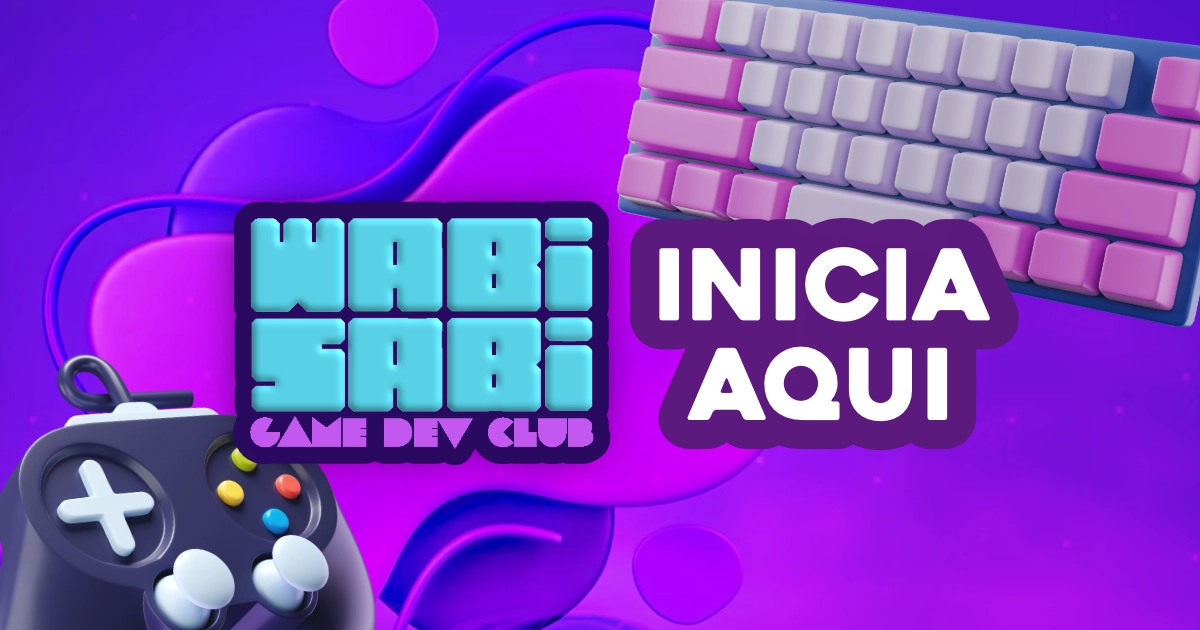
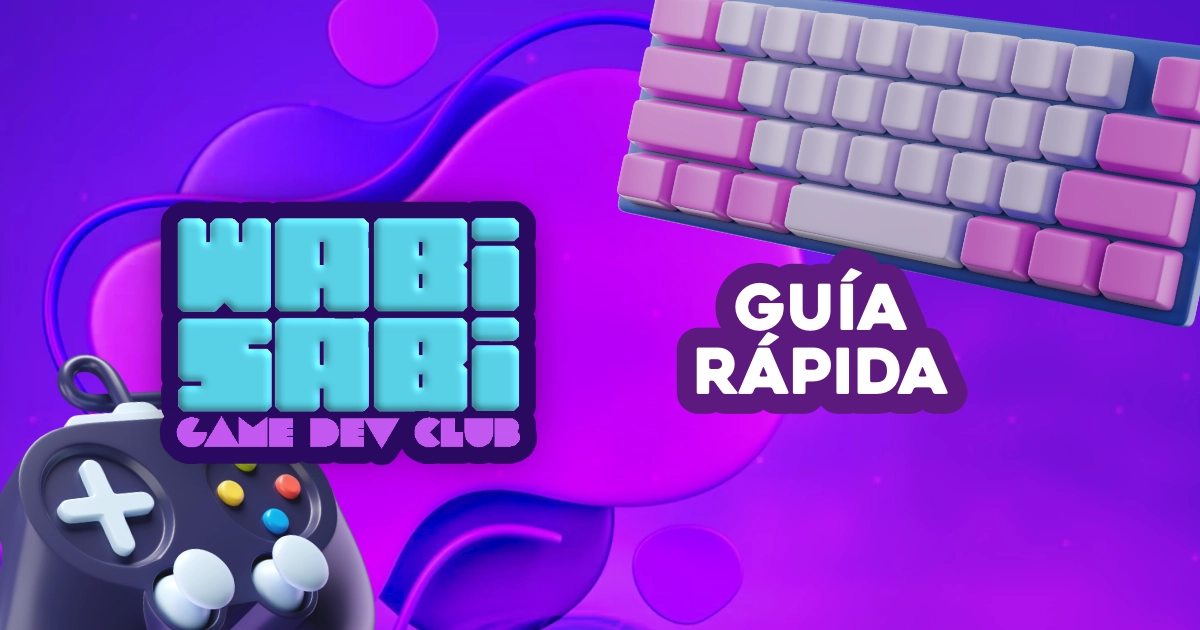
Updated Quick Start guides and changed colors of the overall website

Changed region(s): [[0.1233, 0.3016, 0.8633, 0.754]]

diff --git a/_sass/colors/dark-typography.scss b/_sass/colors/dark-typography.scss
@@ -67,8 +67,8 @@
   --btn-share-color: #6c757d;
   --btn-share-hover-color: #bfc1ca;
   --relate-post-date: var(--text-muted-color);
-  --card-bg: #2c153e;
-  --card-hovor-bg: #5b3692;
+  --card-bg: #20153e;
+  --card-hovor-bg: #3b3692;
   --card-shadow: rgb(21, 21, 21, 0.72) 0 6px 18px 0,
     rgb(137, 135, 135, 0.24) 0 0 0 1px;
   --kbd-wrap-color: #6a6a6a;

diff --git a/_posts/2023-07-04-wabi-sabi-bienvenido.md b/_posts/2023-07-04-wabi-sabi-bienvenido.md
@@ -1,17 +1,49 @@
 ---
+layout: post
 title: Bienvenido a Wabi Sabi Game Dev Club
 date: 2023-07-04 00:00:00 -500
-categories: [Español, Documentos]
+categories: [Español, Documentos] 
 tags: [gamedev,docs]
 pin: true
 image:
     path: /assets/img/headers/bienvenidaheader.webp
 --- 
+## Como nació Wabi Sabi Game Dev Club
+Creé el Wabi Sabi Game Dev Club como una iniciativa abierta para desarrollar microcomunidades dedicadas a fomentar el desarrollo de videojuegos como una poderosa herramienta para la diversión social. Como desarrollador de videojuegos independiente en un país en vías de desarrollo, he sido testigo de primera mano de las necesidades surgidas por la falta de iniciativas comunitarias que sean abiertas, divertidas y diseñadas para ser realmente inclusivas con personas de todos los niveles de experiencia y trayectorias. El objetivo principal del Wabi Sabi Game Dev Club es empoderarte para que establezcas tu propio club de desarrollo de videojuegos Wabi Sabi. Con la guía y las herramientas proporcionadas en esta plataforma, independientemente de tu experiencia o bagaje, creo que cada entusiasta de los videojuegos tiene el poder en sus manos para crear una hermosa comunidad en su entorno inmediato. La misión de este proyecto es reunir a personas que comparten la creencia de que la acción colectiva y positiva en torno a la creación de videojuegos puede ser beneficiosa tanto para el bienestar personal como para la mejora de las comunidades que les rodean.
 
-Bienvenido al sitio web de documentación Wabi Sabi Game Dev Club, el hogar de una iniciativa de microcomunidades dedicada a fomentar el desarrollo de juegos como una poderosa herramienta para la diversión social. Creemos que los juegos tienen el potencial de crear un impacto significativo en la sociedad, y nuestra misión es reunir a individuos que comparten esta creencia, permitiéndoles desarrollar juegos juntos y utilizar esto como una herramienta para el cambio social.
+Podría estar equivocado, pero creo que la verdadera esencia del desarrollo de videojuegos radica en el proceso en sí, más que en el producto final. Por eso, la filosofía de este proyecto es abrazar el arte de la imperfección y la belleza de lo efímero, tal como se enseña en la filosofía japonesa del Wabi Sabi. Este proyecto tiene como objetivo promover la modularidad y flexibilidad, asegurando que el conocimiento compartido en esta plataforma pueda adaptarse fácilmente a diversos entornos, especialmente aquellos en países con necesidades específicas. Al priorizar la modularidad, buscamos proporcionar información y recursos que se puedan personalizar y aplicar de manera efectiva en diversos contextos. Nuestra meta es empoderar a las personas y comunidades adaptando el conocimiento a sus requisitos específicos, fomentando en última instancia el crecimiento dentro de cada microcomunidad.
 
-Nuestra iniciativa se basa en la idea de que la acción colectiva es más impactante que los esfuerzos individuales. Nuestra visión es crear una red de microcomunidades modulares, cada una enfocada en sus propias necesidades específicas para crear espacios divertidos para todos. Estas microcomunidades sirven como centros de colaboración, intercambio de conocimientos y creación de juegos, ya sea por diversión o con un propósito específico, para apasionados desarrolladores de juegos y entusiastas.
-# Apoya este proyecto
-Esta es una iniciativa de educación y código abierto
+## Actividades para tu propio Wabi Sabi Game Dev Club
+Estas son algunas actividades para las cuales compartiremos todos los materiales y conocimientos necesarios para que puedas organizar tu propio club. Si tienes ideas que te gustaría compartir, no dudes en contribuir a este sitio web.
 
-Puedes patrocinarla o contribuir a esta en [Github](https://github.com/WabiSabiClub/wabisabiclub.github.io)
+1. Eventos sociales y encuentros: Organiza eventos sociales informales, tanto en línea como en persona, para fomentar la interacción, construir relaciones y promover un sentido de camaradería entre los miembros. Esto puede incluir noches de juegos, encuentros virtuales o reuniones locales para que los miembros se conecten en persona.
+
+2. Game Jams: Organiza eventos regulares de "Game Jams" en los que los miembros puedan colaborar y crear juegos dentro de un período de tiempo determinado. Anima a los participantes a abrazar la imperfección y experimentar con enfoques no convencionales de diseño de juegos.
+
+3. Talleres y tutoriales: Realiza talleres y tutoriales sobre diversos aspectos del desarrollo de videojuegos, desde programación y arte hasta narrativa y diseño de juegos. Anima a los miembros con experiencia a compartir sus conocimientos y mentorizar a otros, fomentando una cultura de aprendizaje continuo y crecimiento.
+
+4. Sesiones de retroalimentación y pruebas de juego: Facilita sesiones regulares de retroalimentación y pruebas de juego donde los miembros puedan mostrar sus proyectos de juegos y recibir comentarios constructivos de la comunidad. Fomenta discusiones abiertas y crea un entorno de apoyo para compartir ideas y mejorar los proyectos de juego.
+
+5. Destacando a los desarrolladores: Resalta el trabajo de los miembros individuales o microcomunidades dentro del club al mostrar sus juegos, proyectos o logros. Esto puede inspirar a otros, promover la colaboración y generar un sentido de reconocimiento dentro de la comunidad.
+
+6. Proyectos de juego colaborativos: Inicia proyectos de desarrollo de juegos colaborativos donde los miembros puedan trabajar juntos en un concepto de juego compartido. Fomenta la diversidad de habilidades y trayectorias para crear un entorno inclusivo y colaborativo.
+
+7. Desafíos comunitarios: Organiza desafíos creativos o competencias dentro de la comunidad, como la creación de juegos con temas específicos, limitaciones o estilos. Estos desafíos pueden fomentar la creatividad, inspirar la innovación y brindar oportunidades para que los miembros se conecten y aprendan unos de otros.
+
+8. Exhibiciones y muestras comunitarias: Organiza oportunidades para que los miembros muestren sus juegos o proyectos a una audiencia más amplia, como participar en exposiciones de juegos o realizar muestras comunitarias dedicadas. Esto puede brindar exposición, retroalimentación y oportunidades de networking para los miembros.
+
+Al participar activamente en estas actividades e iniciativas, cada Wabi Sabi Game Dev Club puede cultivar una comunidad sólida y de apoyo, fomentando la colaboración, la creatividad y el crecimiento personal entre sus miembros.
+
+
+
+
+
+
+
+## Support this project
+Este es un proyecto de código abierto y educación abierta
+
+Puedes contribuir o patrocinarlo en [Github](https://github.com/WabiSabiClub/)
+
+[![Contribuir a este contenido](https://img.shields.io/badge/Contribuir%20a%20este%20contenido-%236A0DAD?style=for-the-badge&logo=github)](https://www.github.com/wabisabiclub/wabisabiclub.github.io) [![Patrocinar en Ko-fi](https://img.shields.io/badge/Patrocinar%20en%20Ko--fi-FF5E5B?style=for-the-badge&logo=ko-fi)](https://ko-fi.com/wabisabiclub) [![Patrocinar en Patreon](https://img.shields.io/badge/Patrocinar%20en%20Patreon-FF424D?style=for-the-badge&logo=patreon)](https://www.patreon.com/wabisabigamedevclub)
+

diff --git a/_posts/2023-07-04-wabi-sabi-welcome.md b/_posts/2023-07-04-wabi-sabi-welcome.md
@@ -1,19 +1,48 @@
 ---
 title: Welcome to Wabi Sabi Game Dev Club
 date: 2023-07-04 00:00:00 -500
-categories: [English, Docs]
+categories: [English, Docs] 
 tags: [gamedev,docs]
 pin: true
 image:
     path: /assets/img/headers/welcomeheader.webp
 --- 
+## Why Wabi Sabi Game Dev Club was born
 
-Welcome to the docs website of Wabi Sabi Game Dev Club, the home of an initiative of micro communities dedicated to fostering game development as a powerful tool for social fun. We believe that games have the potential to create meaningful impact in society, and our mission is to bring together individuals who share this belief, enabling them to develop games together and use this as a tool for social change.
+I created Wabi Sabi Game Dev Club as an open initiative to develop micro-communities dedicated to fostering game development as a powerful tool for social fun. As an independent video game developer based in a third-world country, I have been able to witness firsthand the needs arising from the lack of community initiatives that are open, fun, and designed to be really inclusive towards people with all levels of expertise and backgrounds. The primary goal of the Wabi Sabi Game Dev Club is to empower you to establish your own Wabi Sabi Game Dev Club. With the guide and tools provided on this platform, regardless of your experience or background, I believe that every video game enthusiast has the power in their hands to create a beautiful community in their immediate surroundings. The mission of this project is to bring together individuals who share the belief that collective and positive action around building games can be beneficial towards personal well being and the betterment of the communities around them.
 
-Our initiative is built upon the idea that collective action is more impactful than individual efforts. Our vision is to create a network of modular micro communities, each focused on its own specific needs to create spaces that are fun for everyone. These micro communities serve as hubs for passionate game developers and enthusiasts to collaborate, share knowledge, and create games just for fun or for a specific purpose.
+I may be wrong but I believe that the true essence of game development lies in the process itself, rather than the final product so the philosophy of this project is embrace the art of imperfection and the beauty of impermanence as in the japanese teaching Wabi Sabi. This project aims to promote modularity and flexibility, ensuring that the knowledge shared on this platform can be easily adapted to various environments, particularly those in countries with specific needs. By prioritizing modularity, we seek to provide information and resources that can be customized and applied effectively in diverse contexts. Our goal is to empower individuals and communities by tailoring the knowledge to their specific requirements, ultimately fostering sustainable growth and development within each micro-community.
 
-# Support this project
+## Activities for your own Wabi Sabi Game Dev Club
+
+These are some activities for which we will be sharing all the necessary materials and knowledge so that you can organize your own club. If you have any ideas that you would like to share yourself please feel free to contribute to this website.
+
+1. Social Events and Meetups: Organize casual social events, both online and offline, to promote networking, build relationships, and foster a sense of camaraderie among members. This can include game nights, virtual hangouts, or local meetups for members to connect in person.
+
+2. Game Jams: Organize regular game jam events where members can collaborate and create games within a specified time frame. Encourage participants to embrace imperfection and experiment with unconventional approaches to game design.
+
+3. Workshops and Tutorials: Conduct workshops and tutorials on various aspects of game development, ranging from programming and art to storytelling and game design. Encourage experienced members to share their knowledge and mentor others, fostering a culture of continuous learning and growth.
+
+4. Feedback and Playtesting Sessions: Facilitate regular feedback and playtesting sessions where members can showcase their game projects and receive constructive feedback from the community. Encourage open discussions and provide a supportive environment for sharing ideas and improving game projects.
+
+5. Developer Spotlights: Highlight the work of individual members or micro-communities within the club by featuring their games, projects, or achievements. This can inspire others, promote collaboration, and foster a sense of recognition within the community.
+
+6. Collaborative Game Projects: Initiate collaborative game development projects where members can work together on a shared game concept. Encourage diverse skill sets and backgrounds to come together, creating an inclusive and collaborative environment.
+
+7. Community Challenges: Organize creative challenges or competitions within the community, such as creating games with specific themes, limitations, or styles. These challenges can foster creativity, inspire innovation, and provide opportunities for members to connect and learn from one another.
+
+10. Community Showcases and Exhibitions: Arrange opportunities for members to showcase their games or projects to a broader audience, such as participating in game expos, exhibitions, or organizing dedicated community showcases. This can provide exposure, feedback, and networking opportunities for members.
+
+By actively engaging in these activities and initiatives, each Wabi Sabi Game Dev Club can cultivate a strong and supportive community, fostering collaboration, creativity, and personal growth among its members.
+
+## Support this project
 This is an open source and open education initiative
 
-You can contribute or sponsor it at [Github](https://github.com/WabiSabiClub/wabisabiclub.github.io)
+You can contribute or sponsor it at [Github](https://github.com/WabiSabiClub/)
+
+[![Contribute to this content](https://img.shields.io/badge/Contribute%20to%20this%20content-%236A0DAD?style=for-the-badge&logo=github)](https://www.github.com/wabisabiclub/wabisabiclub.github.io) [![Sponsor on Ko-fi](https://img.shields.io/badge/Sponsor%20on%20Ko--fi-FF5E5B?style=for-the-badge&logo=ko-fi)](https://ko-fi.com/wabisabiclub) [![Sponsor on Patreon](https://img.shields.io/badge/Sponsor%20on%20Patreon-FF424D?style=for-the-badge&logo=patreon)](https://www.patreon.com/wabisabigamedevclub)
+
+
+
+
 
